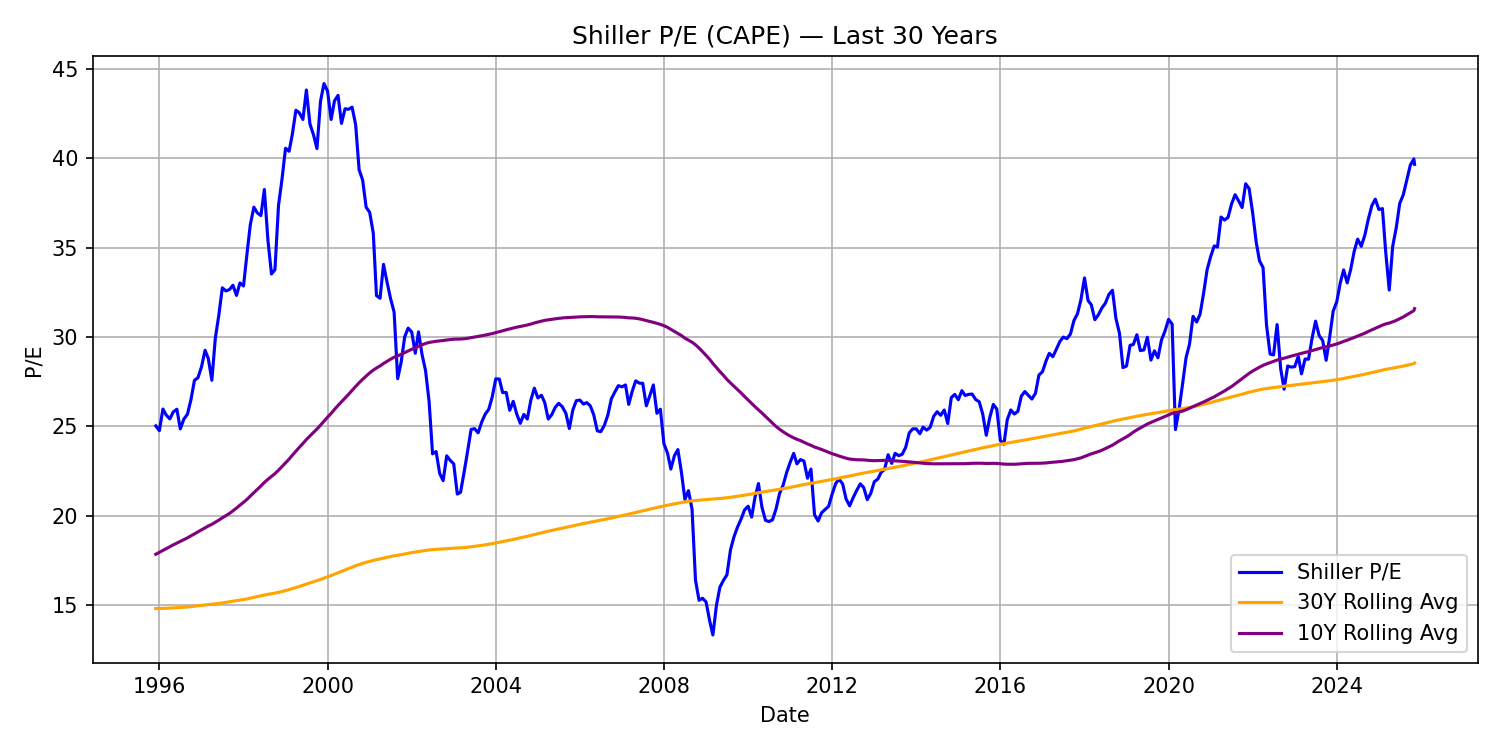
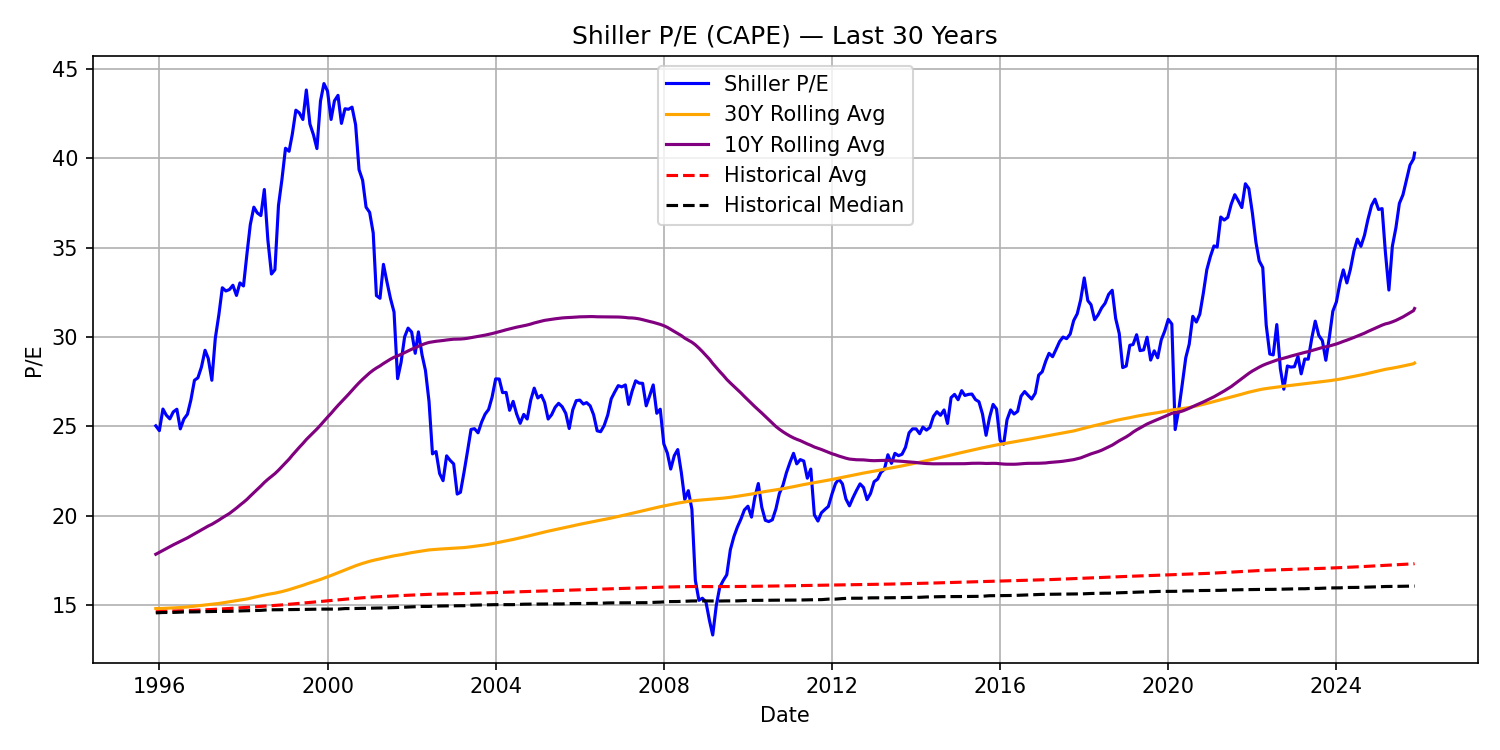
added historical average and median to zoomed chart

diff --git a/scraper.py b/scraper.py
@@ -86,10 +86,10 @@ percentile = stats.percentileofscore(df['shiller_pe'], current_pe)
 
 print(f"\nCurrent Shiller P/E is higher than {percentile:.1f}% of all monthly readings.")
 
-plt.figure(figsize=(10, 5))
-plt.plot(df["date"], df["shiller_pe"], label="Shiller P/E")
+plt.figure(figsize=(10, 5))    # creates a new, blank "figure" or "canvas" for charts, size 10 inches wide and 5 tall
+plt.plot(df["date"], df["shiller_pe"], label="Shiller P/E")    # draws the main line
 
-# Add horizontal lines for our analysis
+# Add lines for our analysis
 plt.plot(df["date"], df["avg_historical"], color='red', linestyle='--', label='Historical Avg')
 plt.plot(df["date"], df["avg_30y"], color='orange', linestyle='--', label='30Y Rolling Avg')
 plt.plot(df["date"], df["avg_10y"], color='purple', linestyle='--', label='10Y Rolling Avg')
@@ -107,8 +107,6 @@ plt.savefig("figures/shiller_pe_history.png", dpi=150)
 
 # --- CHART 2: Zoomed-in view of the last 30 years ---
 
-from datetime import timedelta
-
 # Determine cutoff date (≈30 years ago)
 cutoff_date = df["date"].max() - pd.DateOffset(years=30)
 
@@ -119,6 +117,8 @@ plt.figure(figsize=(10, 5))
 plt.plot(df_recent["date"], df_recent["shiller_pe"], label="Shiller P/E", color="blue")
 plt.plot(df_recent["date"], df_recent["avg_30y"], label="30Y Rolling Avg", color="orange")
 plt.plot(df_recent["date"], df_recent["avg_10y"], label="10Y Rolling Avg", color="purple")
+plt.plot(df_recent["date"], df_recent["avg_historical"], color='red', linestyle='--', label='Historical Avg')
+plt.plot(df_recent["date"], df_recent["median_historical"], color='black', linestyle='--', label='Historical Median')
 
 plt.title("Shiller P/E (CAPE) — Last 30 Years")
 plt.xlabel("Date")
